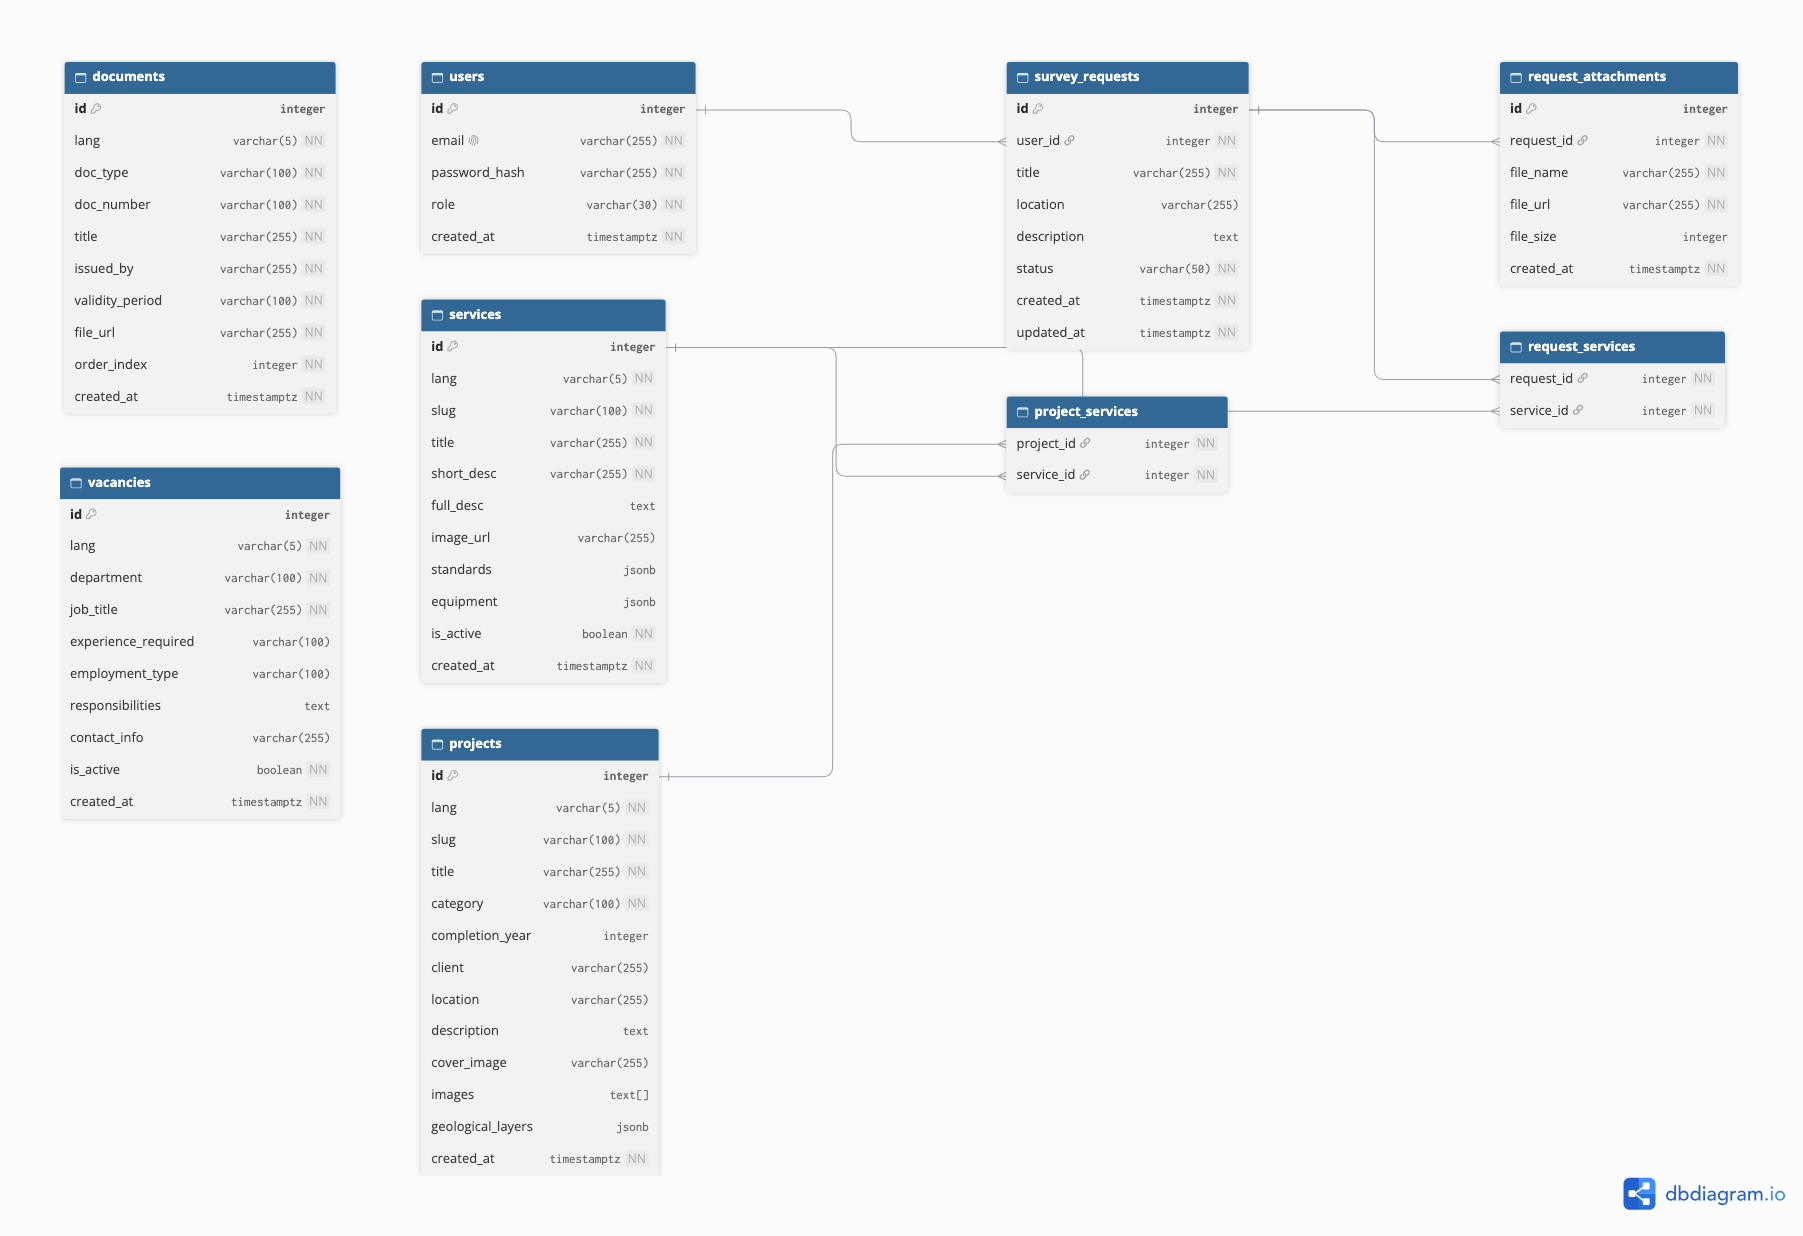
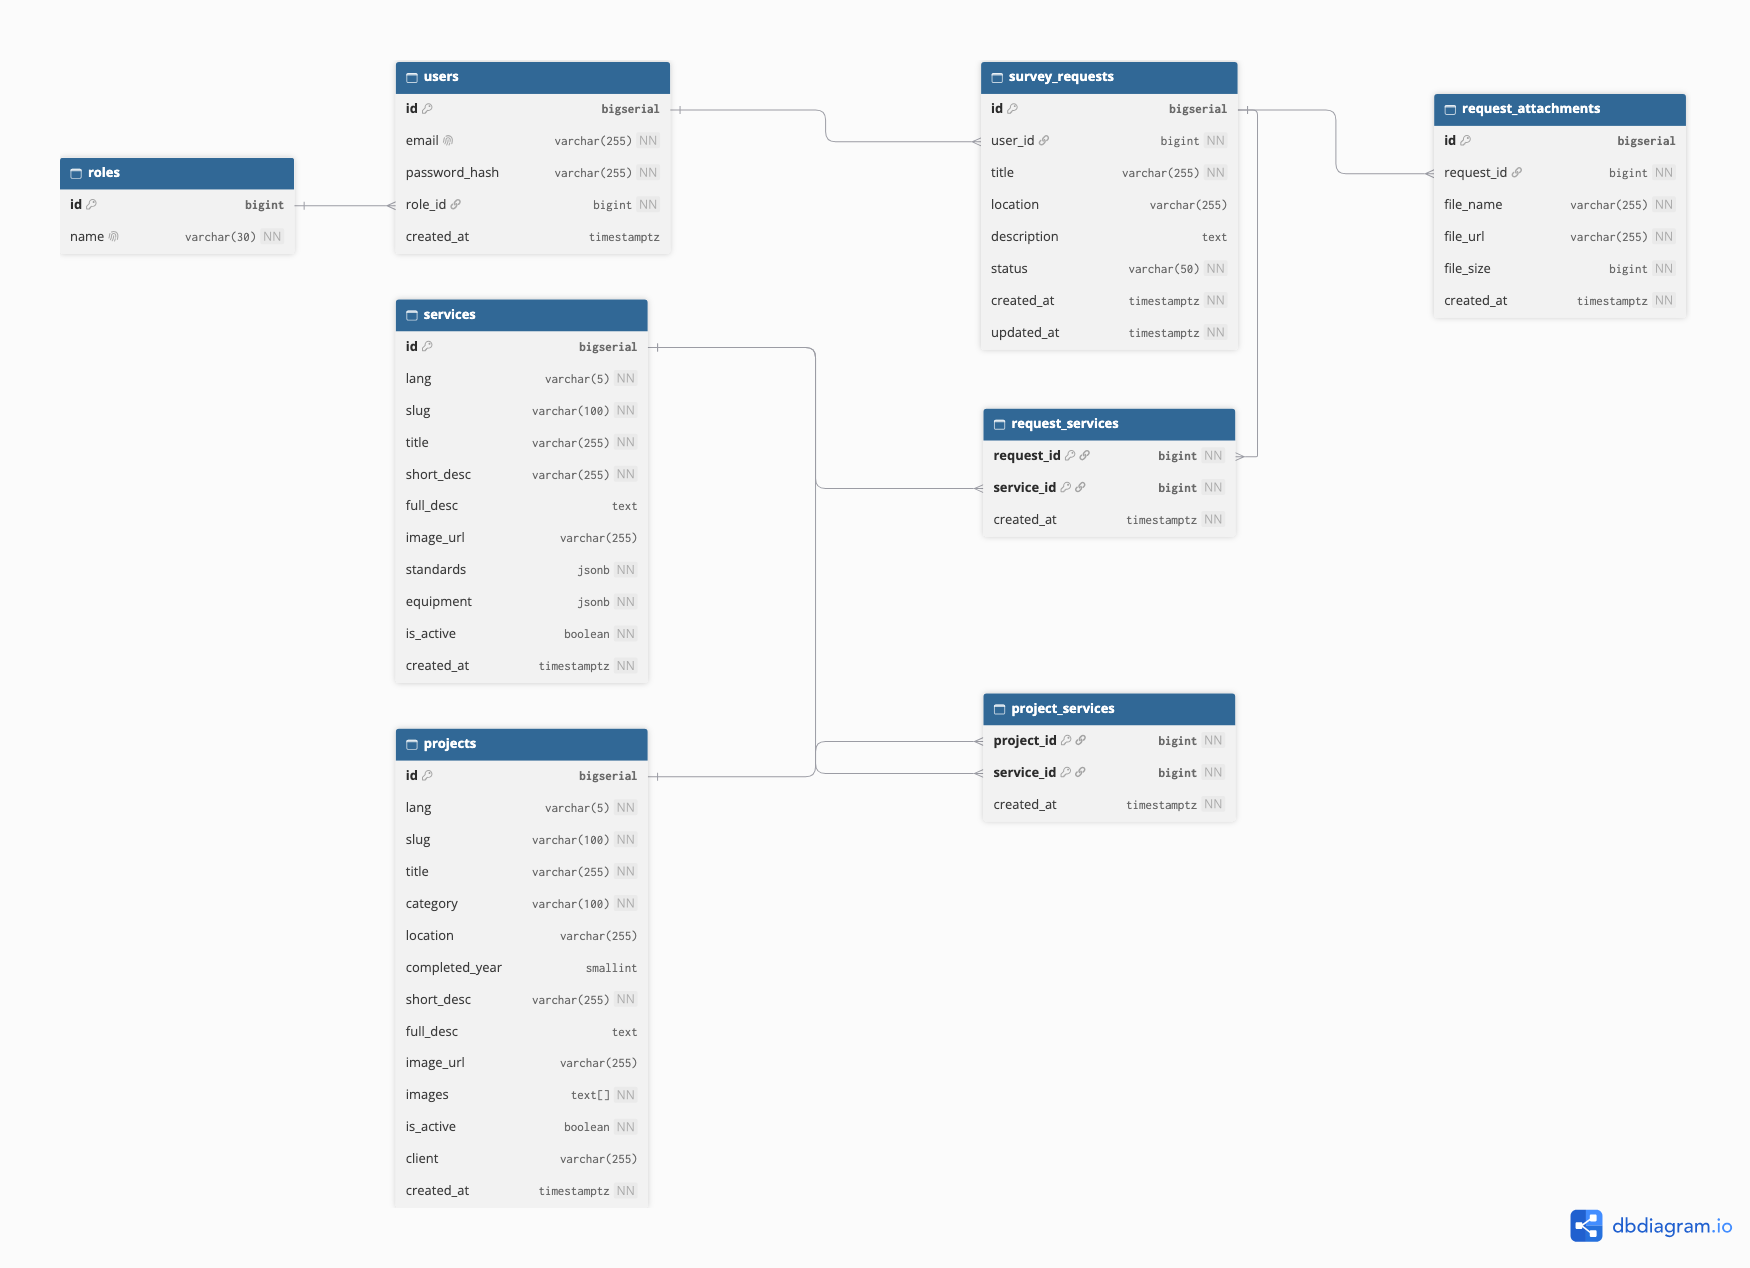
feat: small refactoring

diff --git a/pkg/logger/logger.go b/pkg/logger/logger.go
@@ -68,7 +68,7 @@ func New(cfg Config) (*slog.Logger, func() error, error) {
 
 	consoleHandler := tint.NewHandler(os.Stdout, &tint.Options{
 		Level:      cfg.Level,
-		TimeFormat: time.TimeOnly, // формат "15:04:05" вместо длинного ISO-8601
+		TimeFormat: time.TimeOnly,
 		NoColor:    false,
 	})
 

diff --git a/internal/repository/project/repository.go b/internal/repository/project/repository.go
@@ -266,6 +266,3 @@ func fromPgInt2(v pgtype.Int2) *int16 {
 func toText(s string) pgtype.Text {
 	return pgtype.Text{String: s, Valid: s != ""}
 }
-
-// 1) ssl rend как зарегинироват секретный ключ для jwt
-// 2) jwt io

diff --git a/internal/service/project/service.go b/internal/service/project/service.go
@@ -159,5 +159,3 @@ func normalizeLang(lang string) string {
 func normalizeSlug(slug string) string {
 	return strings.TrimSpace(strings.ToLower(slug))
 }
-
-// генерация ключа токена через ssl rander
